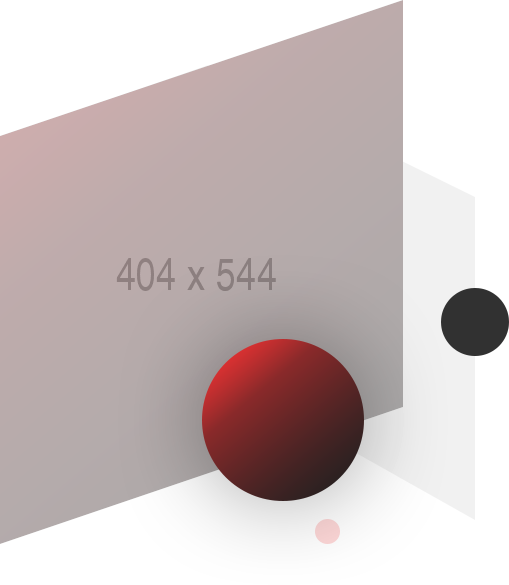
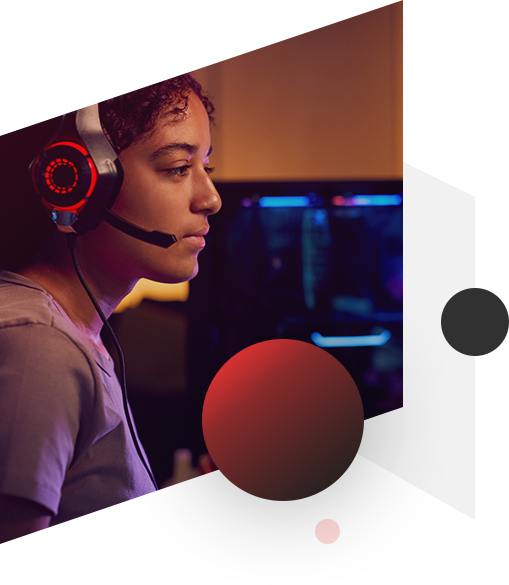
Added images

diff --git a/knackclub/about.html b/knackclub/about.html
@@ -153,7 +153,7 @@
                                     </div>
                                     <div class="col-lg-5 col-md-5 col-sm-12">
                                         <div class="about-section-img">
-                                            <figure class="mb-0"><img src="./assets/images/about-us-page-right-img.png"
+                                            <figure class="mb-0"><img src="./assets/images/accordian-left-img.png"
                                                     alt="" class="">
                                             </figure>
                                         </div>

diff --git a/knackclub/index.html b/knackclub/index.html
@@ -300,7 +300,7 @@
             <div class="row">
                 <div class="col-lg-5 col-md-5 col-sm-12">
                     <div class="cyber-content-img" data-aos="fade-up-left">
-                        <figure class="mb-0"><img src="./assets/images/cyber-security-left-img.png" alt=""
+                        <figure class="mb-0"><img src="./assets/images/accordian-left-img.png" alt=""
                                 class="cyber-security-provider-img">
                         </figure>
                     </div>
